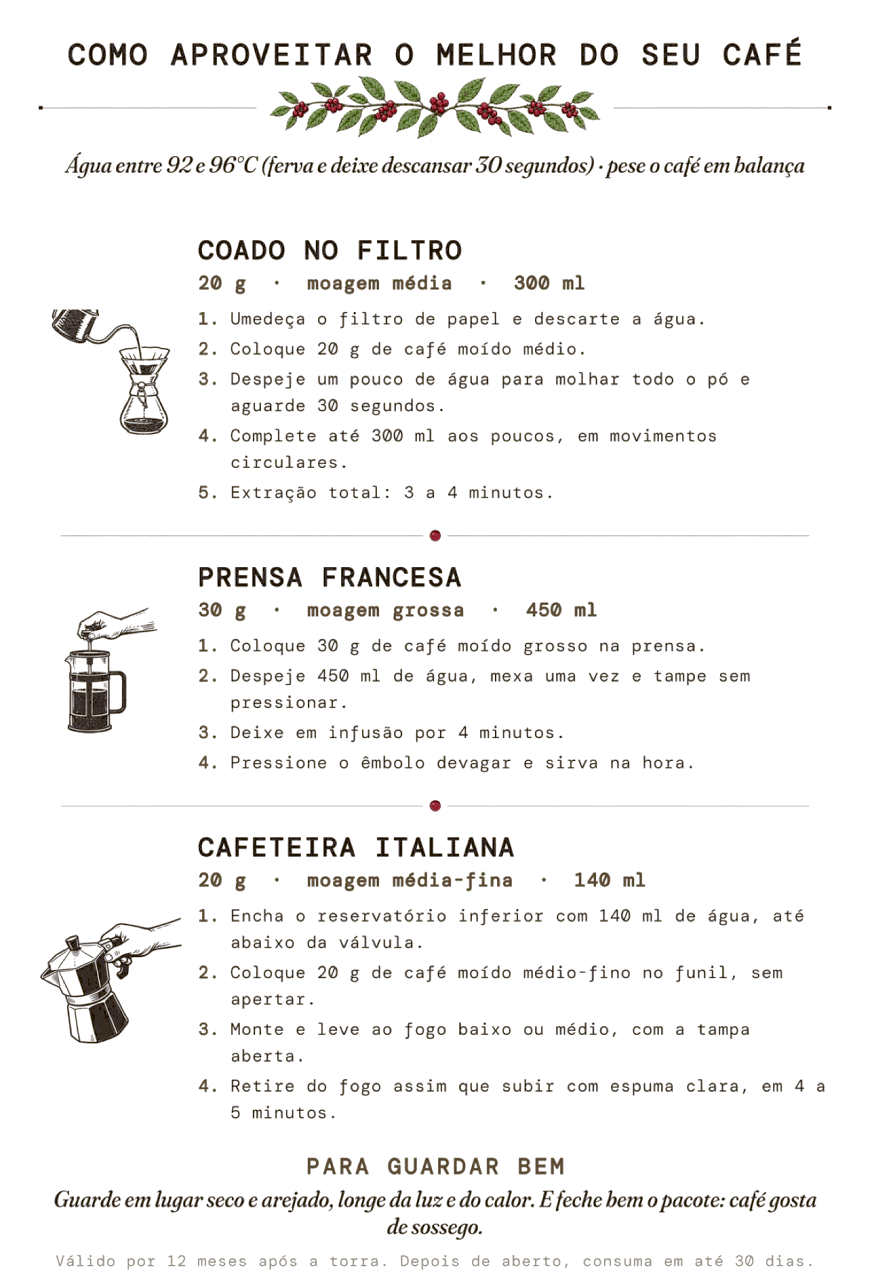
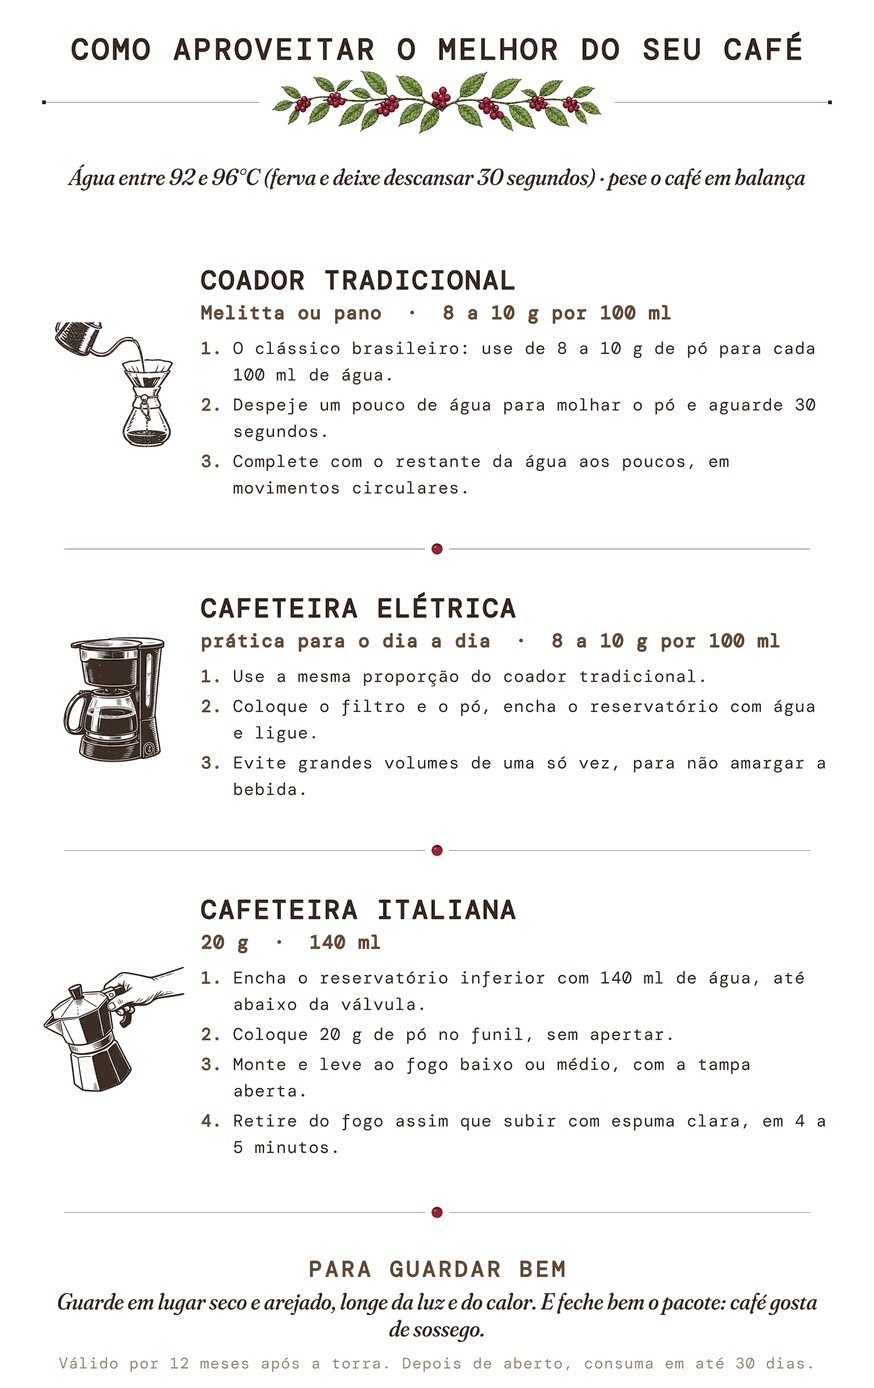
feat: versos novos dos rotulos, e o retrato novo do Fernandinho
Os versos vem do pacote novo, cortados acima do rodape com os dados de
exemplo, e com o alfa em 16 degraus (91 KB em vez de 345 KB). A foto antiga
do Fernandinho, no viveiro, foi para o monte de fotos.

diff --git a/src/components/Cafes.tsx b/src/components/Cafes.tsx
@@ -50,6 +50,15 @@ function arte(c: Cafe) {
   return `/rotulos-web/rotulo_${c.banner}_web`;
 }
 
+/* o verso descrito por extenso: os especiais têm o mesmo guia, e o Minas
+   Santa, que vai moído fino, traz receitas próprias */
+const ALT_VERSO = {
+  especial:
+    "Como aproveitar o melhor do seu café: água entre 92 e 96 °C e o café pesado em balança. Coado no filtro, 20 g de moagem média para 300 ml, em 3 a 4 minutos. Prensa francesa, 30 g de moagem grossa para 450 ml, em 4 minutos. Cafeteira italiana, 20 g de moagem média-fina para 140 ml. Guarde em lugar seco e arejado, longe da luz e do calor, e feche bem o pacote; depois de aberto, consuma em até 30 dias.",
+  minassanta:
+    "Como aproveitar o melhor do seu café: água entre 92 e 96 °C e o café pesado em balança. Coador tradicional, de Melitta ou de pano, com 8 a 10 g de pó para cada 100 ml. Cafeteira elétrica, na mesma proporção, sem fazer grandes volumes de uma vez para não amargar. Cafeteira italiana, 20 g para 140 ml, em fogo baixo ou médio. Guarde em lugar seco e arejado, longe da luz e do calor, e feche bem o pacote; depois de aberto, consuma em até 30 dias.",
+};
+
 /** o verso de cada linha, na tinta dela; os dois Heranças são o mesmo */
 function verso(c: Cafe) {
   return `/rotulos/rotulo_verso_${c.banner.startsWith("herancas") ? "herancas" : c.banner}`;
@@ -497,14 +506,14 @@ function Cartao({ cafe, aoVerRotulo }: { cafe: Cafe; aoVerRotulo: () => void }) 
                 <picture className="block min-h-0 flex-1">
                   <source
                     type="image/webp"
-                    srcSet={`${verso(cafe)}_1x.webp 874w, ${verso(cafe)}_2x.webp 1289w`}
+                    srcSet={`${verso(cafe)}_1x.webp 874w, ${verso(cafe)}_2x.webp 1748w`}
                     sizes="(min-width: 1024px) 540px, 92vw"
                   />
                   <img
                     src={`${verso(cafe)}_1x.png`}
-                    alt="Como aproveitar o melhor do seu café: água entre 92 e 96 °C e o café pesado em balança. Coado no filtro, 20 g de moagem média para 300 ml, em 3 a 4 minutos. Prensa francesa, 30 g de moagem grossa para 450 ml, em 4 minutos. Cafeteira italiana, 20 g de moagem média-fina para 140 ml. Guarde em lugar seco e arejado, longe da luz e do calor, e feche bem o pacote; depois de aberto, consuma em até 30 dias."
+                    alt={ALT_VERSO[cafe.banner === "minassanta" ? "minassanta" : "especial"]}
                     width={874}
-                    height={1286}
+                    height={1388}
                     decoding="async"
                     className="block h-full w-full object-contain object-top"
                   />

diff --git a/src/components/MesaFotos.tsx b/src/components/MesaFotos.tsx
@@ -17,7 +17,8 @@ export type FotoMesa = { src: string; alt: string; legenda: string; ficha: strin
  */
 
 /* a inclinação de cada cópia é dela, e não do lugar no monte */
-const GIRO = [-3.2, 2.4, -1.6, 3.6, -2.4, 1.4, -3.8, 2.8, -1.2, 3.1, -2.1, 1.9];
+const GIROS = [-3.2, 2.4, -1.6, 3.6, -2.4, 1.4, -3.8, 2.8, -1.2, 3.1, -2.1, 1.9, -2.7];
+const giro = (i: number) => GIROS[i % GIROS.length];
 /* quanto cada camada escapa da de cima: é o que dá espessura ao monte */
 const ESCAPE = [
   [0, 0], [7, 3], [-9, 5], [11, 6], [-6, 8], [4, 9],
@@ -68,7 +69,7 @@ const tf = (p: Pos) =>
 function noMonte(i: number, k: number, g: Geo): Pos {
   const e = ESCAPE[Math.min(k, ESCAPE.length - 1)];
   /* a de cima fica mais reta, para a foto ser lida */
-  return { x: g.x0 + e[0], y: g.topo + e[1], r: GIRO[i] * (k === 0 ? 0.5 : 1) };
+  return { x: g.x0 + e[0], y: g.topo + e[1], r: giro(i) * (k === 0 ? 0.5 : 1) };
 }
 
 /** as doze em linhas, na ordem dos números, cada uma ainda um pouco torta */
@@ -83,7 +84,7 @@ function naMesa(i: number, n: number, g: Geo) {
   const pos: Pos = {
     x: c * (cw + gap) + cw / 2 - g.w / 2,
     y: 10 + r * (linha + gap) + (g.h * s) / 2 - g.h / 2,
-    r: GIRO[i] * 0.45,
+    r: giro(i) * 0.45,
     s,
   };
   return { pos, s, altura: 10 + Math.ceil(n / cols) * (linha + gap) };
@@ -197,7 +198,7 @@ export default function MesaFotos({
       const x = lado > 0 ? window.innerWidth - r.left + 40 : -r.left - g.w - 40;
       el.classList.remove("no-ar", "mola");
       el.classList.add("voando");
-      el.style.transform = tf({ x, y: g.topo + dy * 0.5 - 24, r: GIRO[i] + lado * 22 });
+      el.style.transform = tf({ x, y: g.topo + dy * 0.5 - 24, r: giro(i) + lado * 22 });
       arrumar(i);
       window.setTimeout(() => {
         el.classList.remove("voando");
@@ -274,9 +275,9 @@ export default function MesaFotos({
     h.rastro.push({ x: ev.clientX, y: ev.clientY, t: agora });
     while (h.rastro.length > 2 && agora - h.rastro[0].t > 90) h.rastro.shift();
     /* pegou por cima, gira para o lado do arrasto; por baixo, gira ao contrário */
-    const giro = h.base.r + (dx / g.w) * (5 + 16 * h.alavanca);
+    const inclina = h.base.r + (dx / g.w) * (5 + 16 * h.alavanca);
     const el = cartas.current[ordem.current[0]];
-    if (el) el.style.transform = tf({ x: h.base.x + dx, y: h.base.y + dy, r: giro, s: 1.035 });
+    if (el) el.style.transform = tf({ x: h.base.x + dx, y: h.base.y + dy, r: inclina, s: 1.035 });
   };
 
   const soltar = (ev: PointerEvent<HTMLDivElement>) => {

diff --git a/src/components/Galeria.tsx b/src/components/Galeria.tsx
@@ -7,6 +7,7 @@ import {
   casaSitio,
   cerejaGota,
   cerejasSerra,
+  fernandinhoViveiro,
   jucaLavoura,
   lavouraMudas,
   linhasCafezal,
@@ -60,6 +61,12 @@ const FOTOS: Foto[] = [
     alt: "Gota de orvalho escorrendo de uma folha sobre frutos de café, dentro do talhão",
     legenda: "Dentro do talhão",
     ficha: "Orvalho, cedo da manhã",
+  },
+  {
+    src: fernandinhoViveiro,
+    alt: "Fernandinho, de chapéu camuflado e camiseta do Sítio JR, faz sinal de positivo ao lado das mudas de café, em sacolinhas e caixas, no viveiro",
+    legenda: "O Fernandinho no viveiro",
+    ficha: "As mudas esperando a vez de ir para a lavoura",
   },
   {
     src: lavouraMudas,

diff --git a/src/imagens.ts b/src/imagens.ts
@@ -38,6 +38,8 @@ export { default as capelaPoente } from "@/assets/capela-poente.jpg";
 /* os dois primos, e a lavoura de hoje */
 export { default as joaoHenrique } from "@/assets/joao-henrique.jpg";
 export { default as fernandinho } from "@/assets/fernandinho.jpg";
+/* a foto antiga dele, no viveiro, foi para o monte de fotos da propriedade */
+export { default as fernandinhoViveiro } from "@/assets/fernandinho-viveiro.jpg";
 export { default as lavouraMudas } from "@/assets/lavoura-mudas.jpg";
 export { default as cafePoente } from "@/assets/cafe-poente.jpg";
 export { default as casaSitio } from "@/assets/casa-sitio.jpg";
